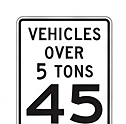
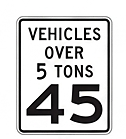
auto-commit for 1f4f4577-2466-4a5b-8418-2024c56a8f14

Changed region(s): [[0.119, 0.1935, 0.9048, 1.0], [0.119, 0.0968, 0.9048, 0.1935], [0.4524, 0.7742, 0.5238, 0.8468]]

diff --git a/scripts/crop_elp_signs_v3.py b/scripts/crop_elp_signs_v3.py
@@ -47,26 +47,30 @@ for ri, (y0, y1) in enumerate(y_runs):
         print(f"⚠ Row {ri+1}: detected {len(x_runs)} columns")
     for x0, x1 in x_runs:
         cell = ink[y0:y1, x0:x1]
+        cell_w = x1 - x0
         row_w = cell.sum(axis=1)
-        thresh = max(2, int((x1 - x0) * 0.10))
+        thresh = max(2, int(cell_w * 0.10))
         keep_rows = np.where(row_w >= thresh)[0]
         if len(keep_rows) == 0:
             cy0, cy1 = 0, y1 - y0
             bottom_safe = MARGIN
         else:
             cy0 = keep_rows[0]; cy1 = keep_rows[-1] + 1
-            # Detect the gap between sign body and the caption numeral.
+            bottom_safe = MARGIN
+            # Gap detection — but ONLY trim across a gap when the segment
+            # AFTER the gap is narrow (caption-shaped). A wide post-gap
+            # segment (>= 30% of cell width on any single row) is the sign's
+            # bottom border line and must be preserved.
             gaps = np.where(np.diff(keep_rows) > 4)[0]
-            if len(gaps):
-                gap_idx = gaps[-1]
-                body_end = keep_rows[gap_idx] + 1
-                caption_start = keep_rows[gap_idx + 1]
-                cy1 = body_end
-                # Bottom margin is whichever is smaller: standard MARGIN or
-                # half the gap to the caption (so the caption never enters).
-                bottom_safe = max(0, min(MARGIN, (caption_start - body_end) // 2))
-            else:
-                bottom_safe = MARGIN
+            for gap_idx in reversed(gaps):  # check the last gap first
+                after_gap_rows = keep_rows[gap_idx + 1:]
+                max_after_w = int(row_w[after_gap_rows].max()) if len(after_gap_rows) else 0
+                if max_after_w < cell_w * 0.30:
+                    # Narrow segment after this gap → caption — trim.
+                    cy1 = keep_rows[gap_idx] + 1
+                    break
+                # Wide segment → it's a border. Stop checking.
+                break
         col_h = cell.sum(axis=0)
         keep_cols = np.where(col_h >= 2)[0]
         cx0 = keep_cols[0] if len(keep_cols) else 0
